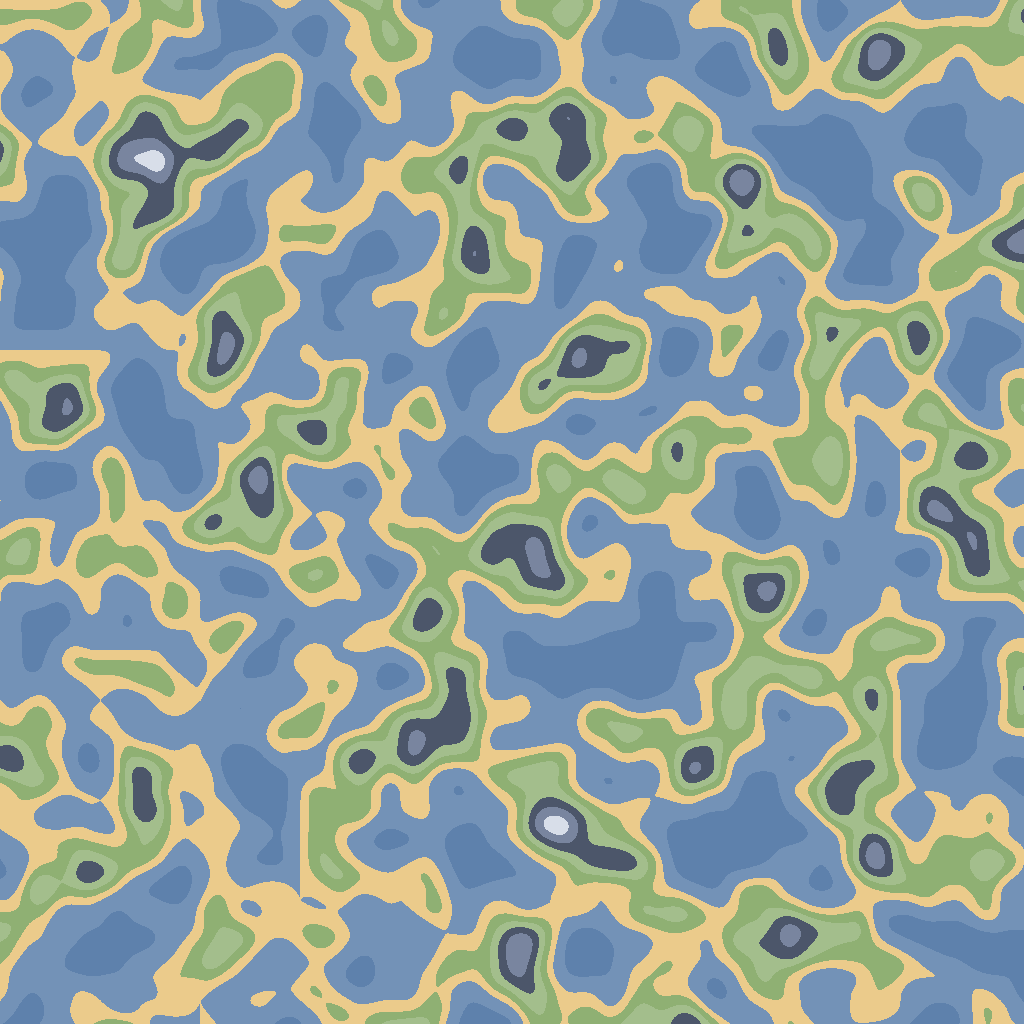
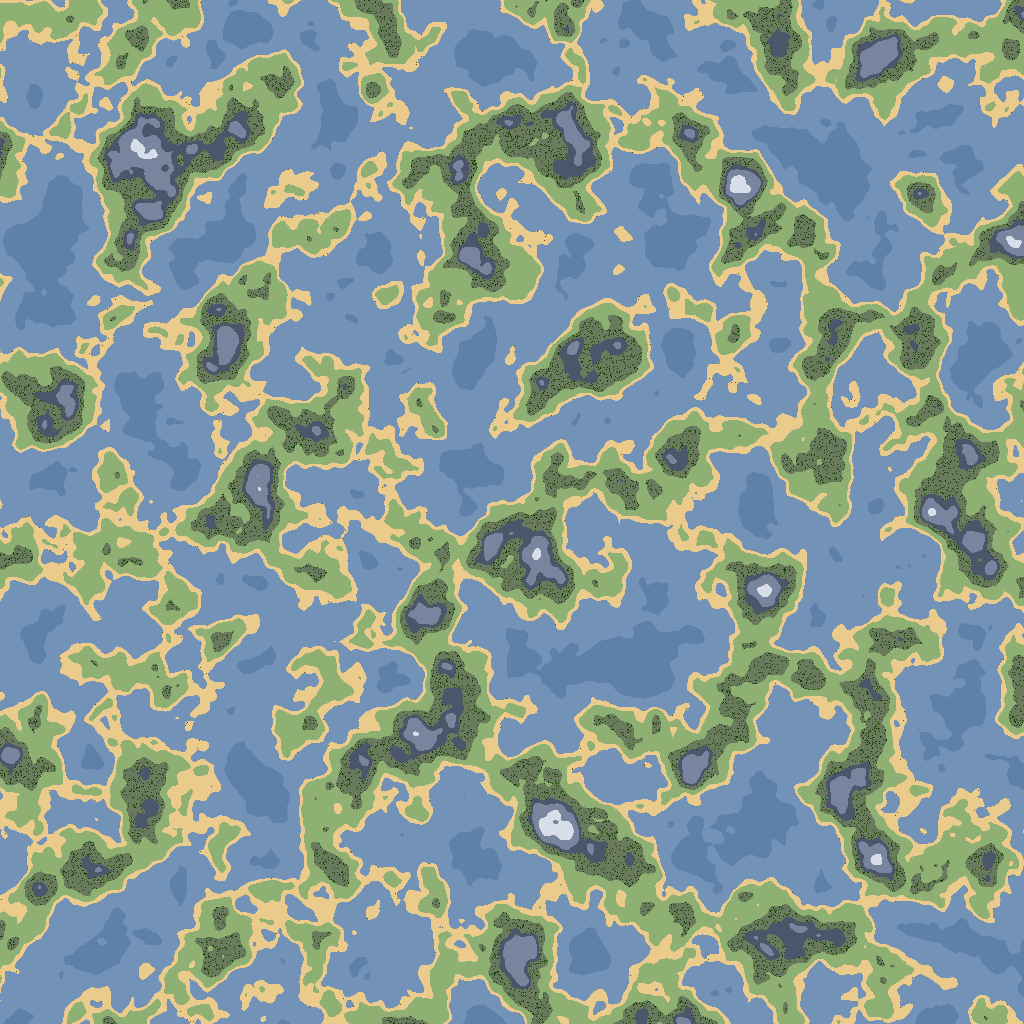
added trees in the forests and rare wreckage to the edge of beaches

diff --git a/terrainGenerator.py b/terrainGenerator.py
@@ -7,7 +7,7 @@ import random
 
 shape= (1024, 1024)
 scale = 100
-octaves = 2
+octaves = 4
 persistence =.5
 lacunarity = 2
 
@@ -27,9 +27,13 @@ for i in range(shape[0]):
         
 deepOcean = [94, 129, 172]
 ocean = [115, 146, 183]
+fish = [58, 75, 94]
 beach = [235, 203, 139]
+seashell = [185, 85, 189]
+wreckage = [105, 70, 1]
 land = [143, 176, 115]
-forest = [163, 190, 140]
+tree = [15, 64, 0]
+forest = [106, 122, 92]
 mountain = [76, 86, 106]
 tallMountain = [121, 133, 159]
 snow = [216, 222, 233]
@@ -44,15 +48,26 @@ def addColor(world):
                 coloredWorld[i][j] = deepOcean
             elif world[i][j] < 0:
                 coloredWorld[i][j] = ocean
-            elif world[i][j] < .1:
-                coloredWorld[i][j] = beach
-            elif world[i][j] < .2:
-                coloredWorld[i][j] = land
+            elif world[i][j] < .05:
+                if world[i][j] < .01:
+                    r = random.randint(0,100)
+                    if r < 1:
+                        coloredWorld[i][j] = wreckage
+                    else:
+                        coloredWorld[i][j] = beach
+                else:
+                    coloredWorld[i][j] = beach
+            elif world[i][j] < .15:
+                    coloredWorld[i][j] = land
+            elif world[i][j] < .25:
+                r = random.randint(0,100)
+                if r < 10:
+                   coloredWorld[i][j] = tree
+                else:
+                    coloredWorld[i][j] = forest
             elif world[i][j] < .3:
-                coloredWorld[i][j] = forest
-            elif world[i][j] < .4:
                 coloredWorld[i][j] = mountain
-            elif world[i][j] < .5:
+            elif world[i][j] < .4:
                 coloredWorld[i][j] = tallMountain
             elif world[i][j] < 1:
                 coloredWorld[i][j] = snow
